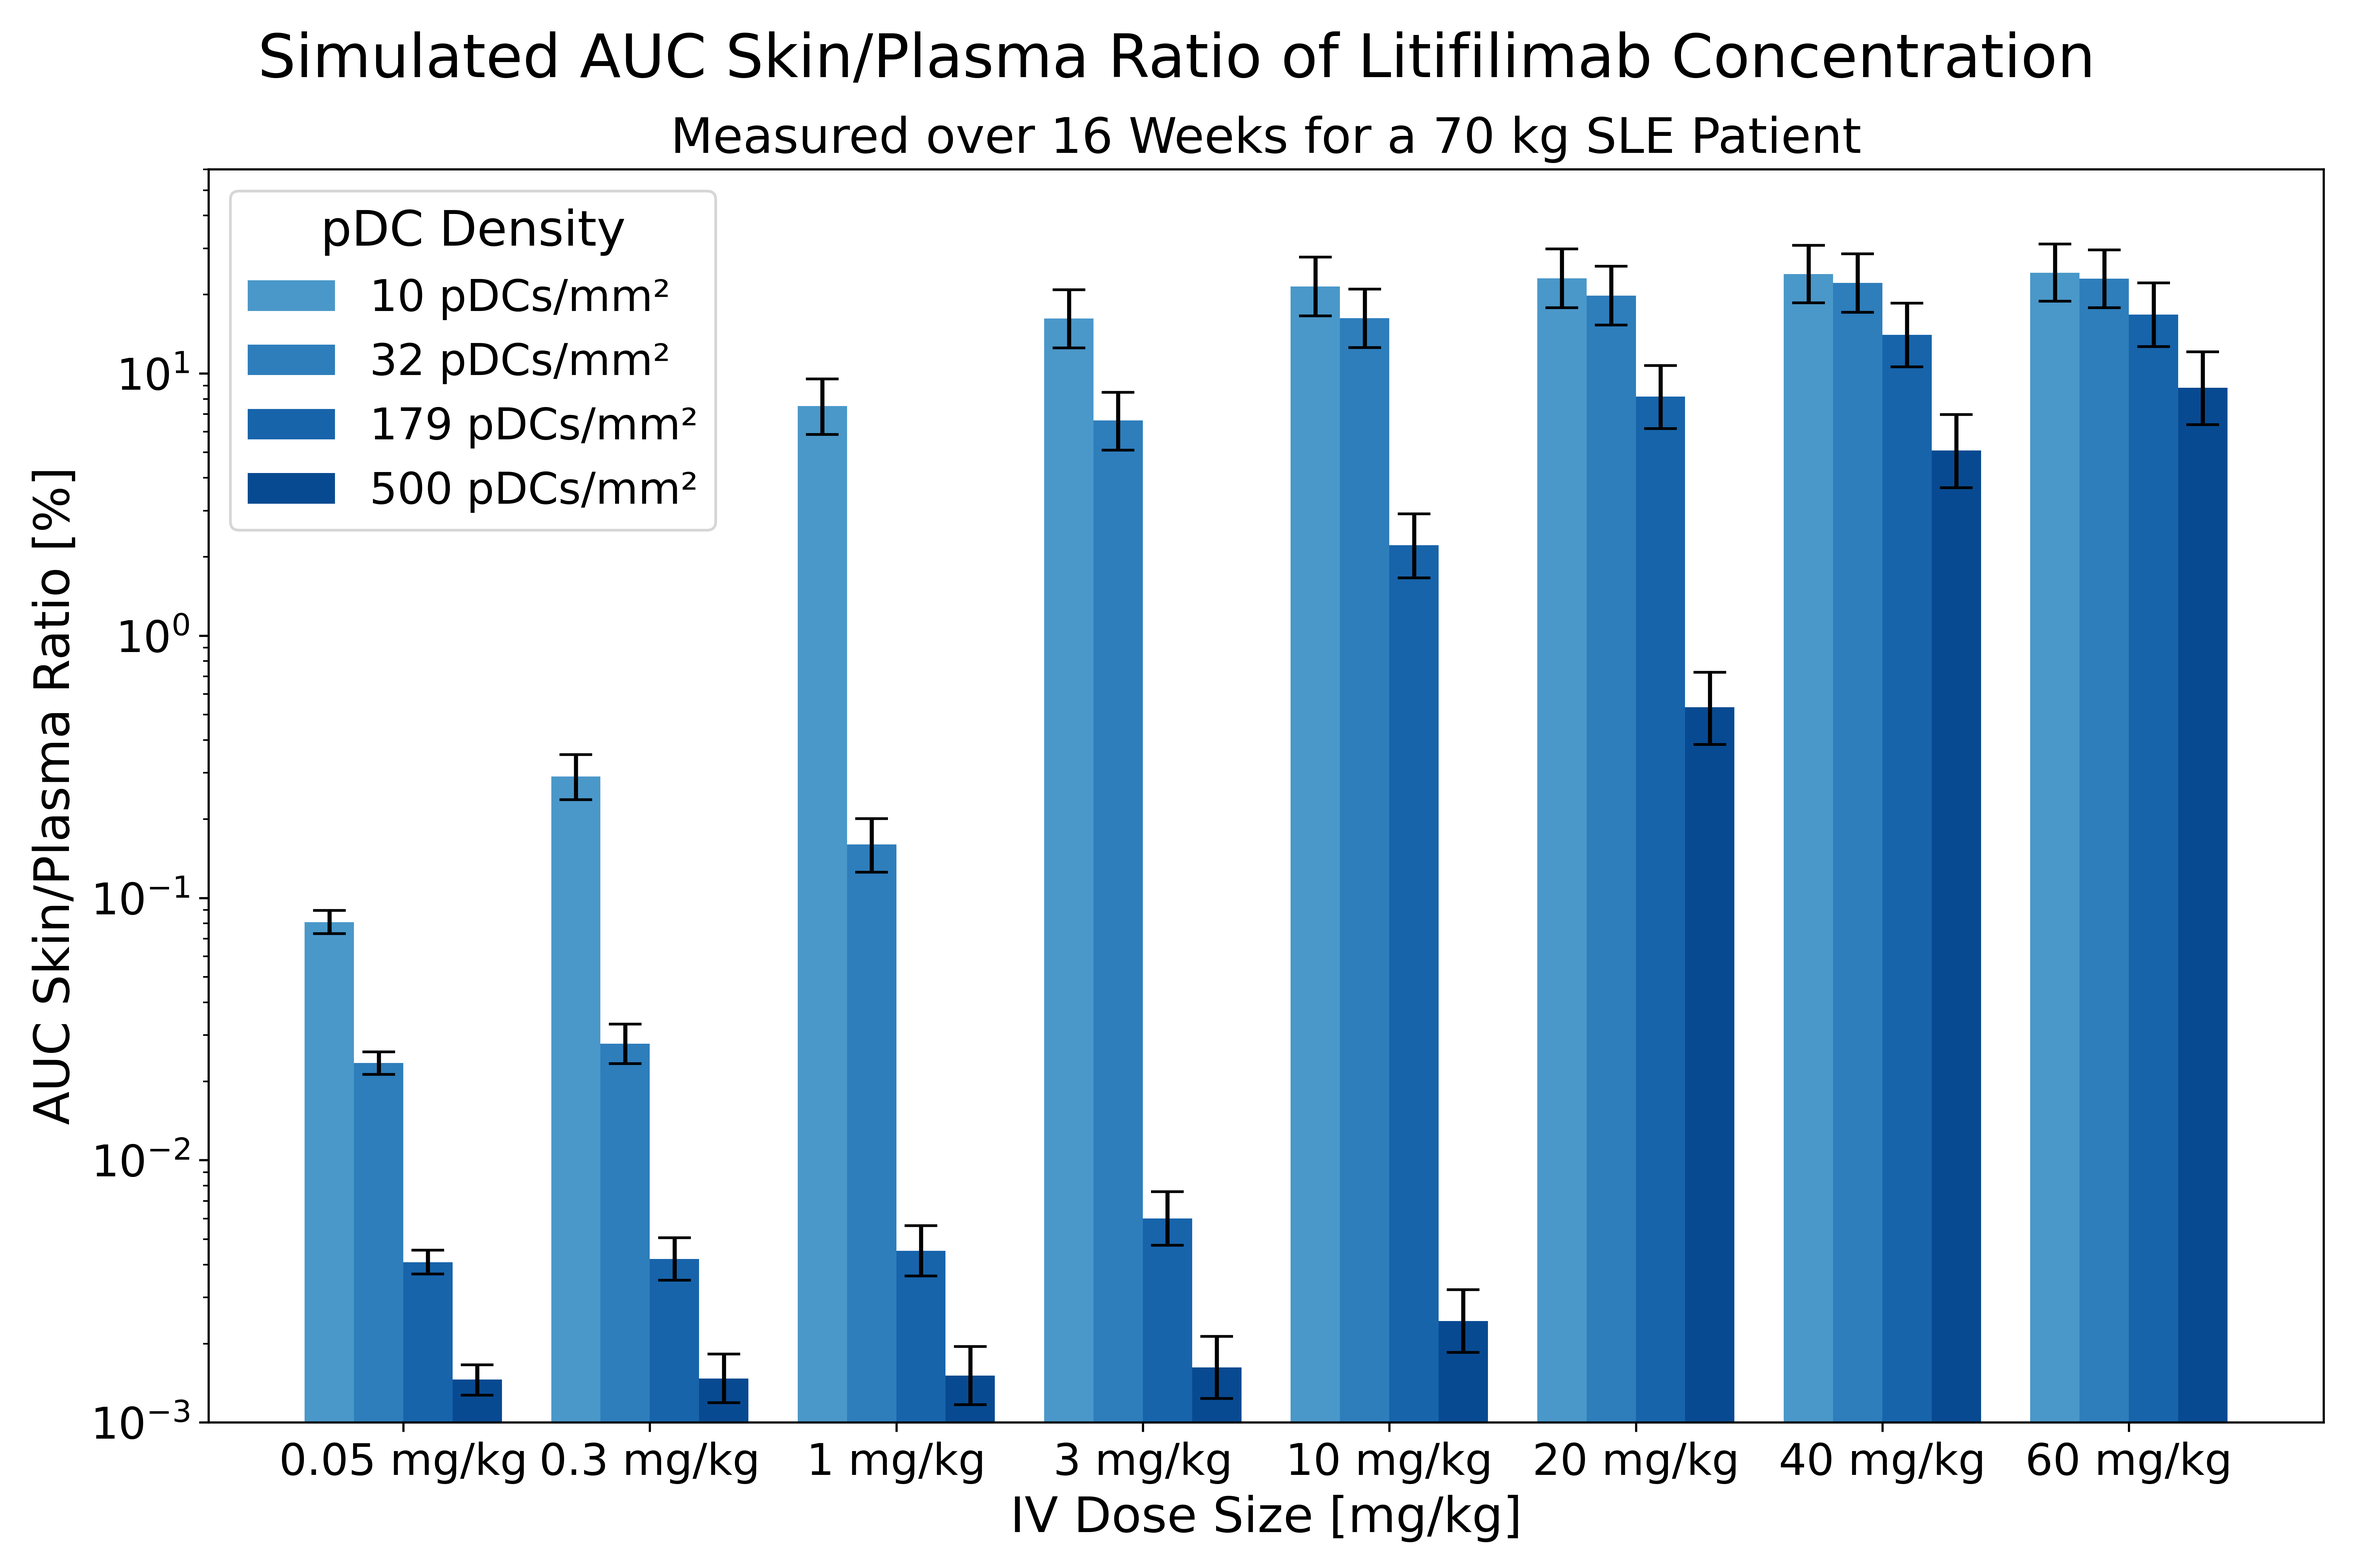
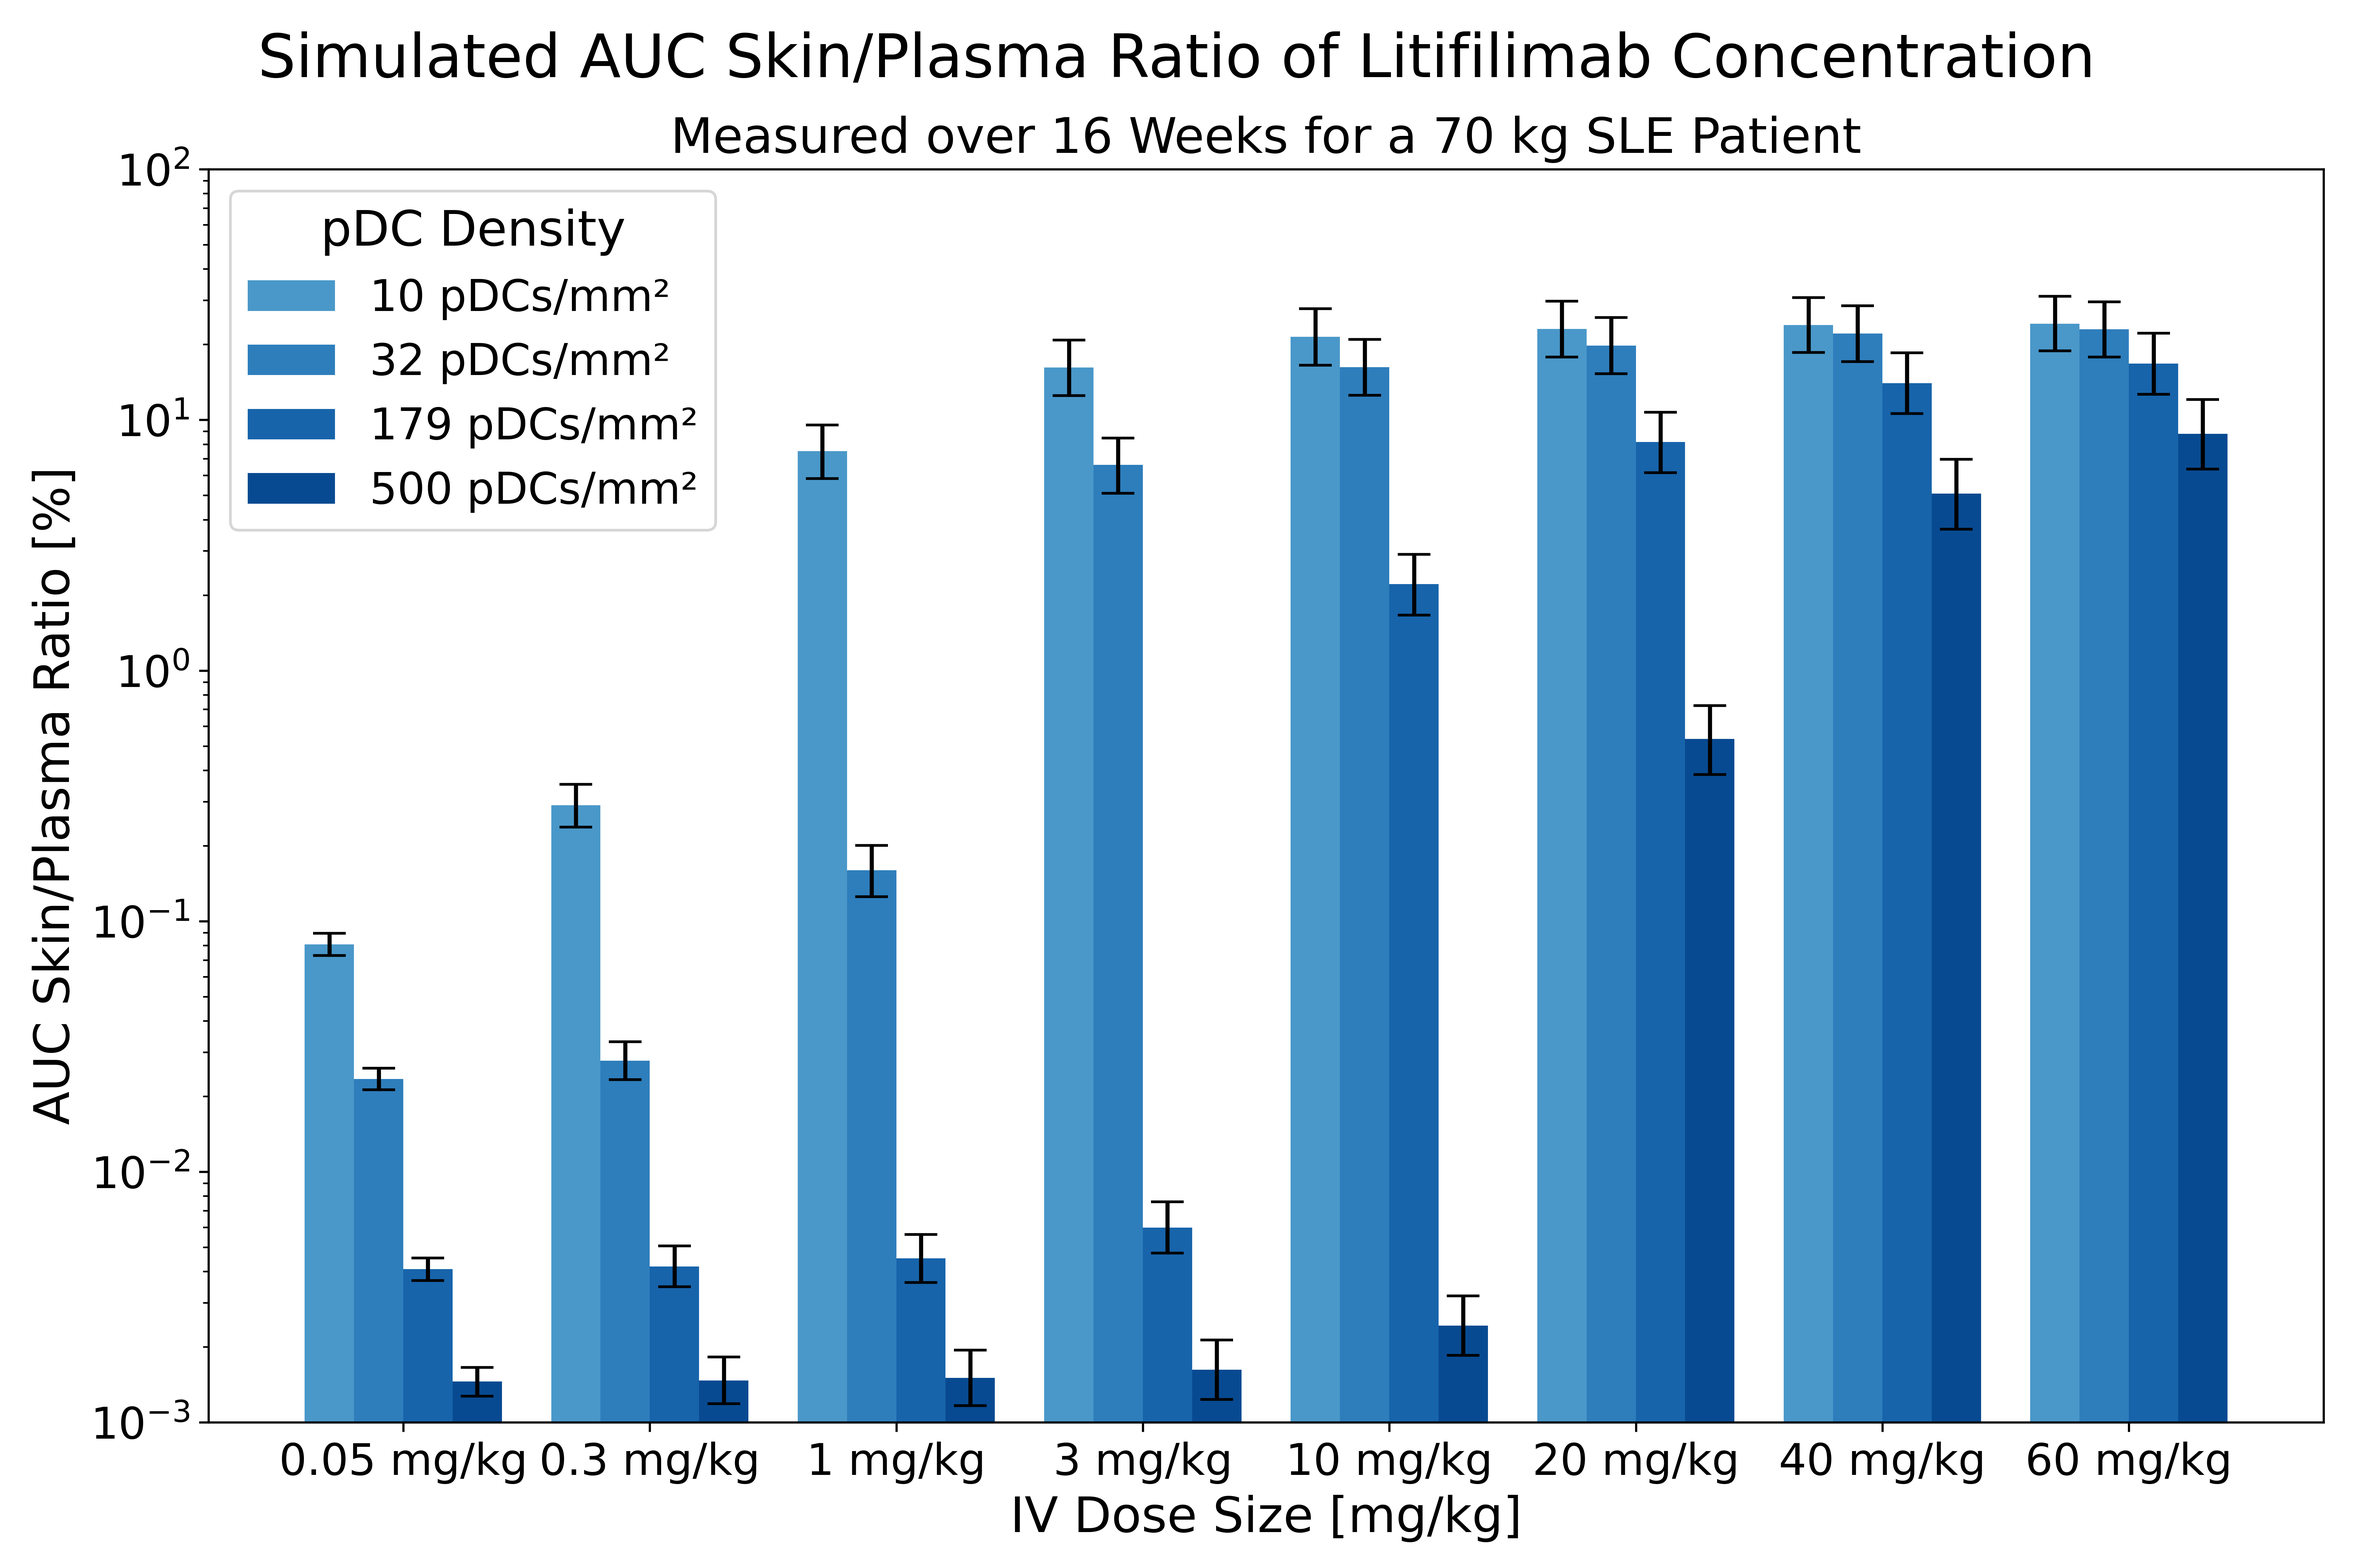
igenigen

diff --git a/Scripts/Plot/SLE/plot_SLE_skin_dose_response.py b/Scripts/Plot/SLE/plot_SLE_skin_dose_response.py
@@ -514,7 +514,7 @@ def plot_skin_plasma_AUC_ratio(params, acceptable_params, models, time_vector):
     plt.ylabel('AUC Skin/Plasma Ratio [%]', fontsize=18)
     plt.xlabel('IV Dose Size [mg/kg]', fontsize=18)
     plt.yscale('log')
-    plt.ylim(0.001, 60)
+    plt.ylim(0.001, 100)
     plt.suptitle('Simulated AUC Skin/Plasma Ratio of Litifilimab Concentration', fontsize=22)
     plt.title('Measured over 16 Weeks for a 70 kg SLE Patient', fontsize=18)
     plt.legend(title='pDC Density', title_fontsize=18, fontsize=16)
